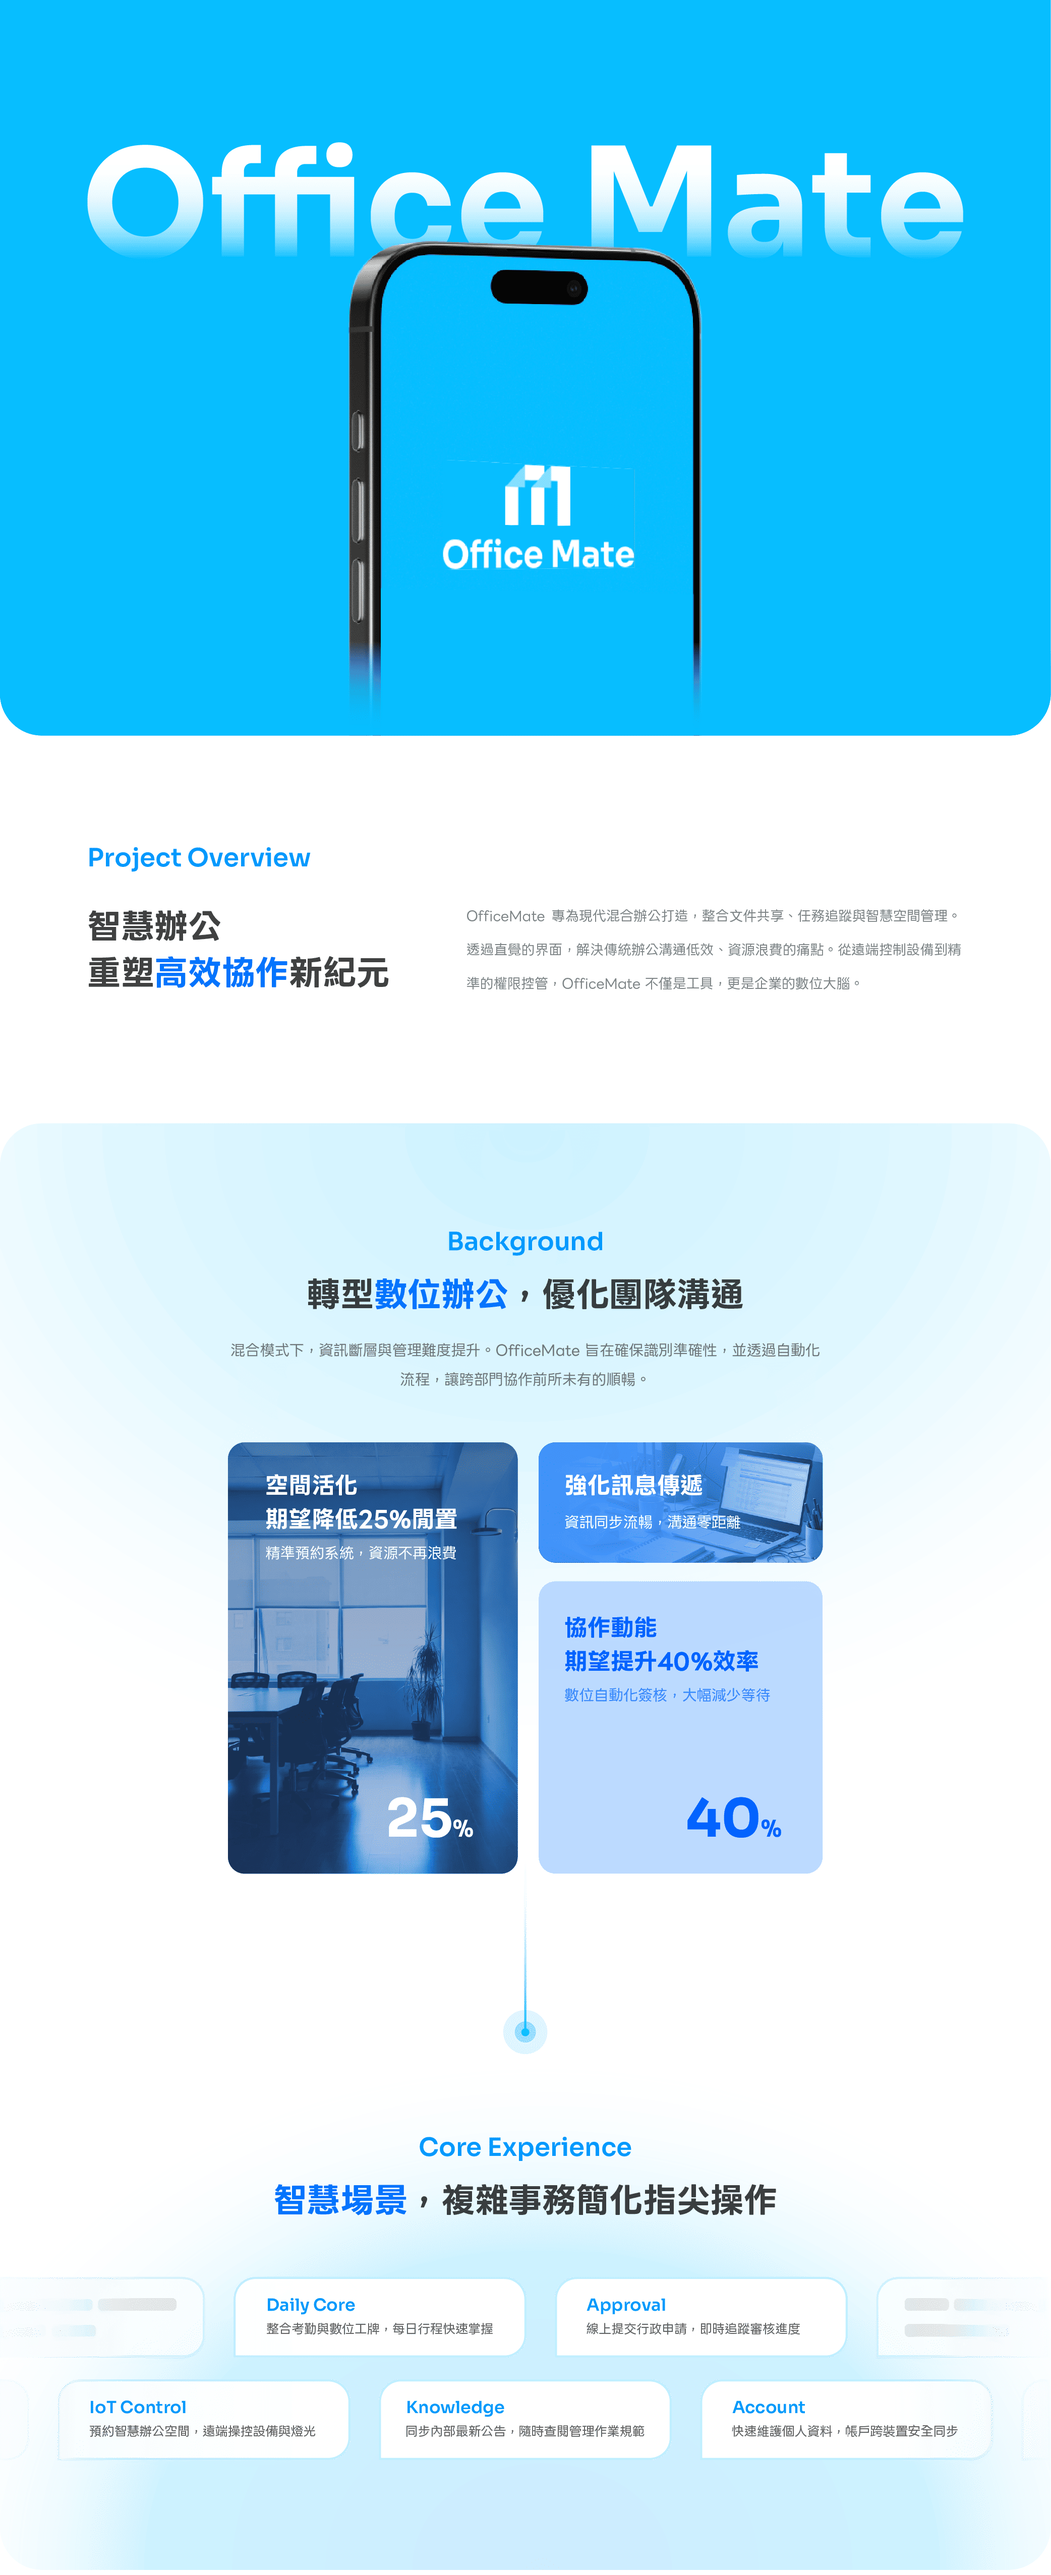
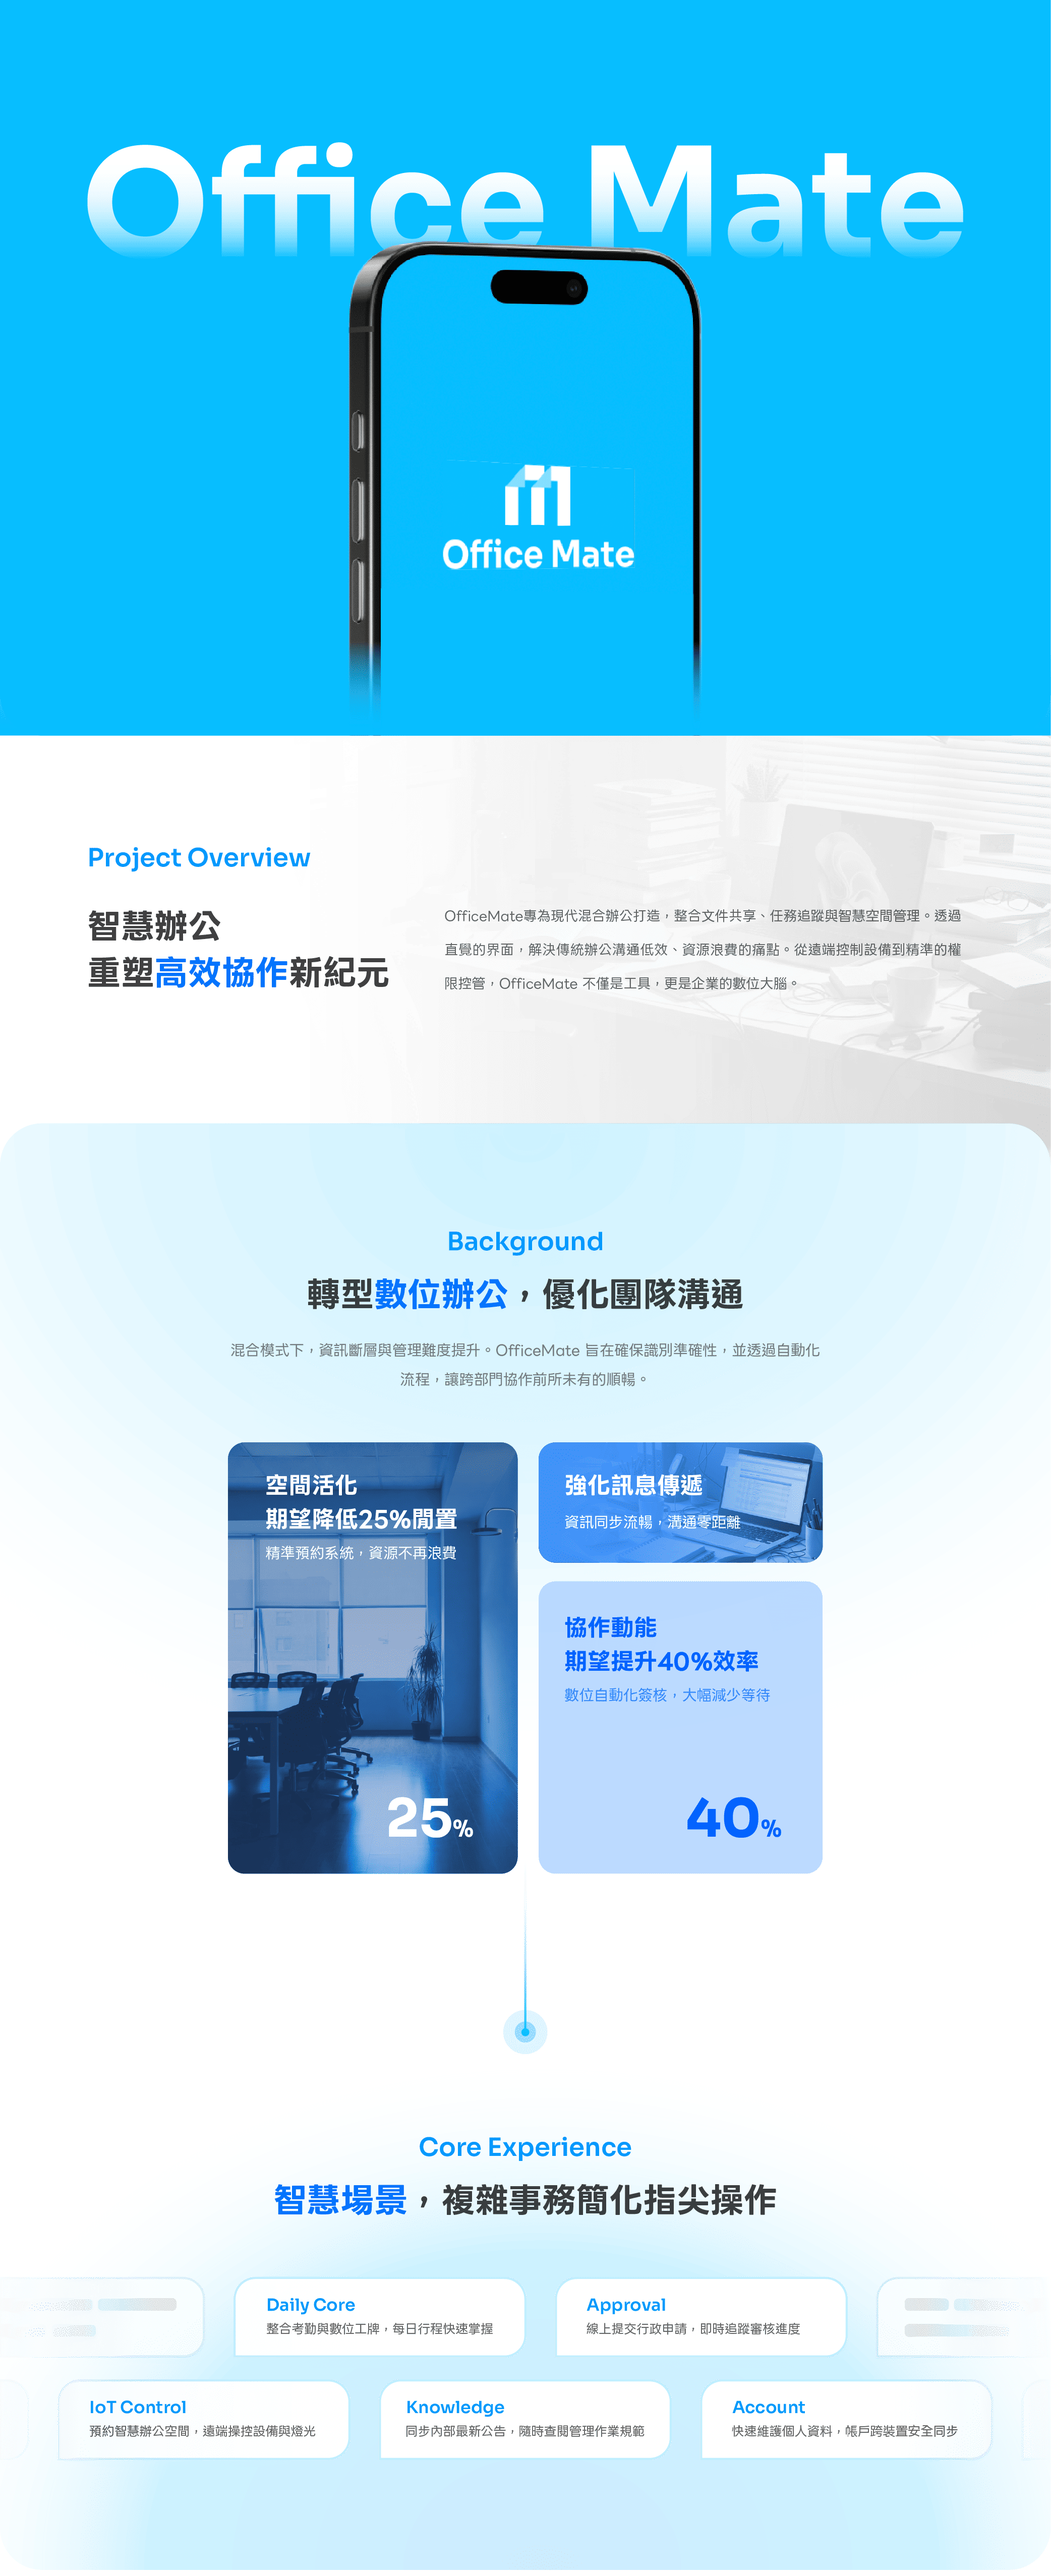
058

diff --git a/design/officemate_new .html b/design/officemate_new .html
@@ -172,7 +172,7 @@
         </div>
 
         <div class="image-placeholder">
-            <img src="officemate_new-01.webp" alt="RxEase Interface 1" loading="lazy" onload="imgLoaded(this)">
+            <img src="officemate_new-08.webp" alt="RxEase Interface 1" loading="lazy" onload="imgLoaded(this)">
         </div>
         
         <div class="image-placeholder">
